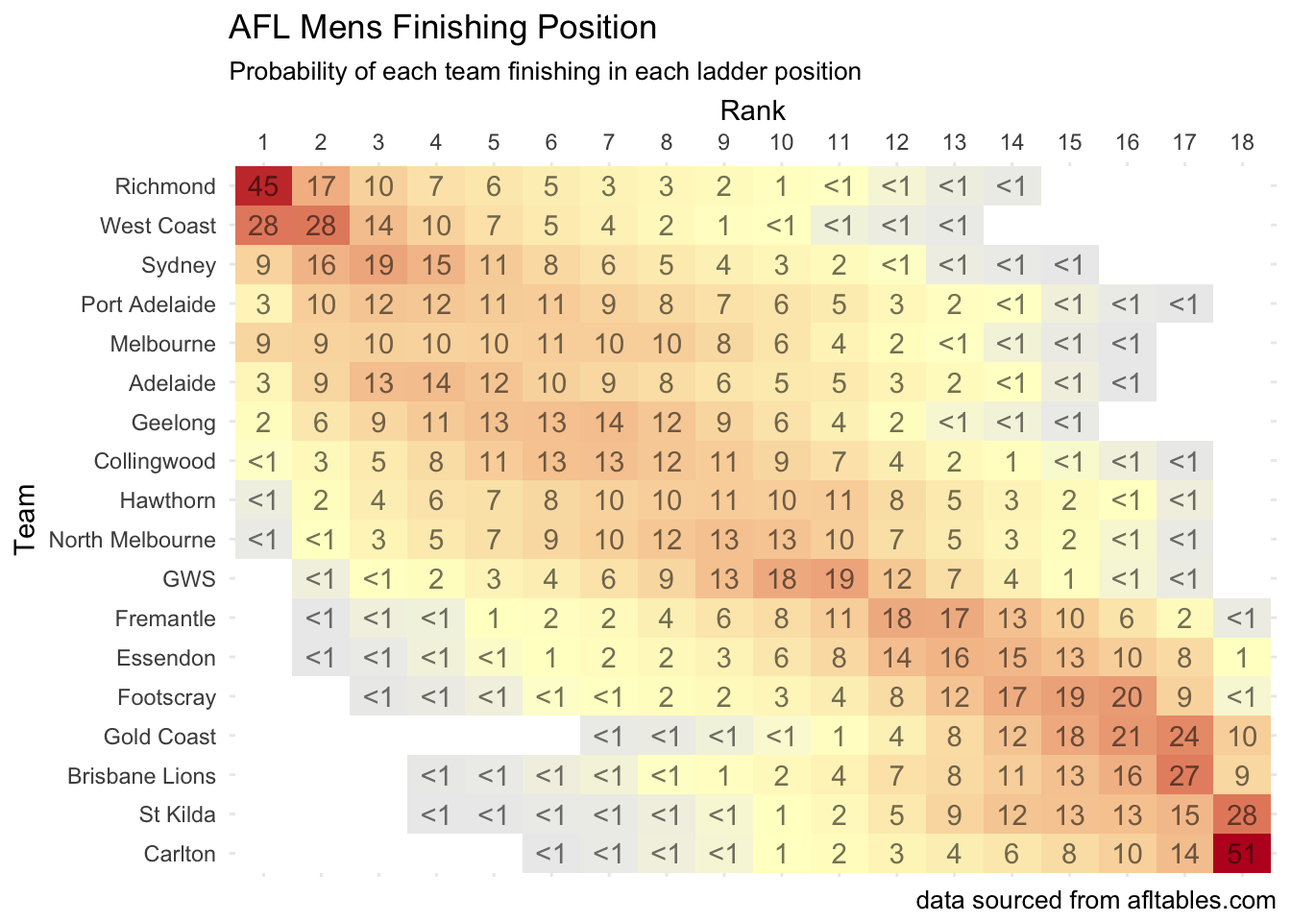
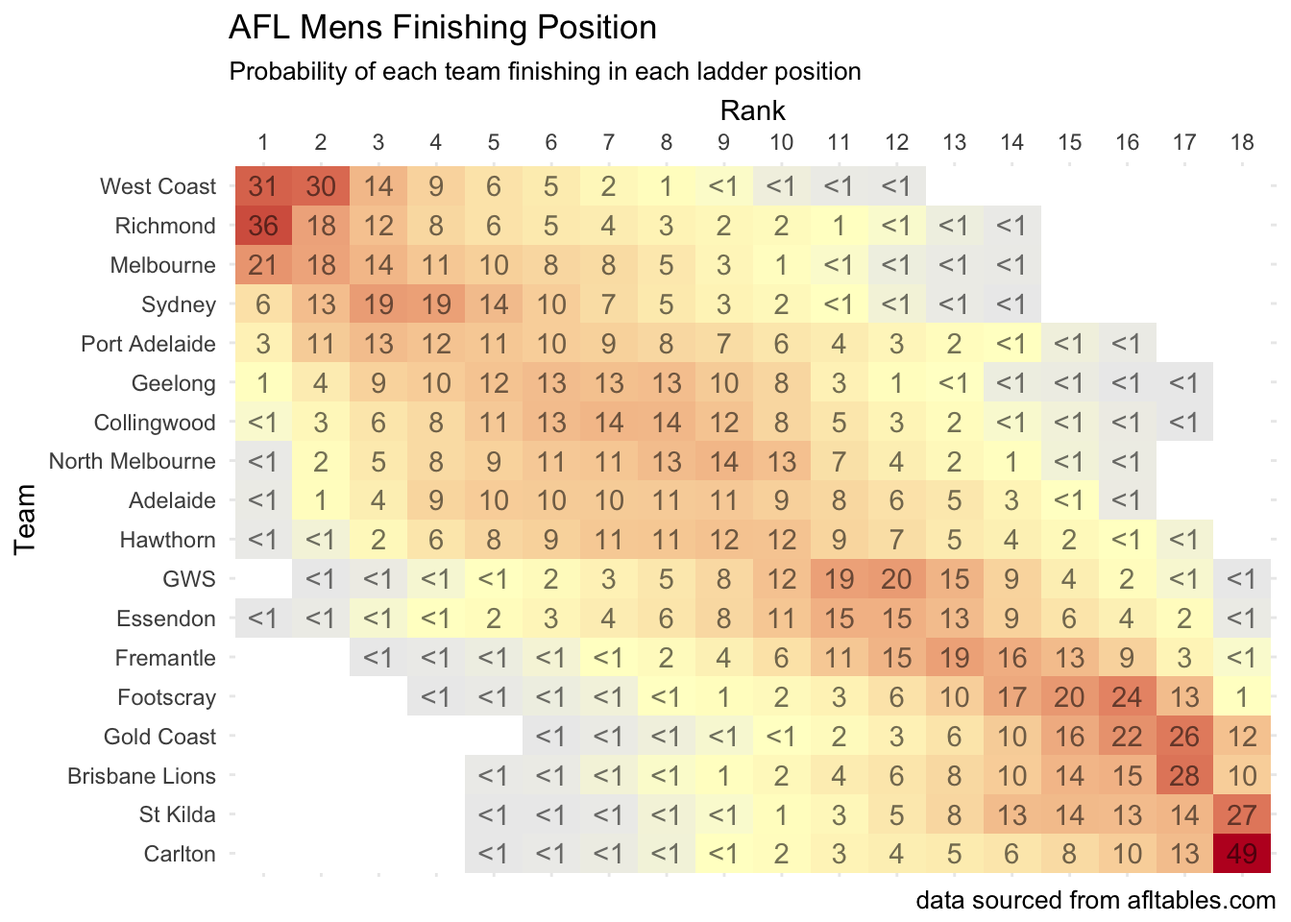
Updating pages after round 11

diff --git a/static/page/aflm-ratings-and-simulations_files/figure-html/widgets/widget_formattable.html b/static/page/aflm-ratings-and-simulations_files/figure-html/widgets/widget_formattable.html
@@ -16,12 +16,12 @@
 </head>
 <body style="background-color:white;">
 <div id="htmlwidget_container">
-  <div id="htmlwidget-3d005ff53d61f99d8d3a" style="width:95%;height:700px;" class="datatables html-widget"></div>
+  <div id="htmlwidget-970a37d9d9e76696845b" style="width:95%;height:700px;" class="datatables html-widget"></div>
   <script>HTMLWidgets.pymChild = new pym.Child();HTMLWidgets.addPostRenderHandler(function(){
                                 setTimeout(function(){HTMLWidgets.pymChild.sendHeight();},100);
                             });</script>
 </div>
-<script type="application/json" data-for="htmlwidget-3d005ff53d61f99d8d3a">{"x":{"filter":"none","data":[["1","2","3","4","5","6","7","8","9","10","11","12","13","14","15","16","17","18"],["Richmond       ","West Coast     ","Sydney         ","Port Adelaide  ","Melbourne      ","Adelaide       ","Geelong        ","Collingwood    ","Hawthorn       ","North Melbourne","GWS            ","Fremantle      ","Essendon       ","Footscray      ","Gold Coast     ","Brisbane Lions ","St Kilda       ","Carlton        "],["<span style=\"display: inline-block; direction: rtl; border-radius: 4px; padding-right: 2px; background-color: rgba(32, 178, 170, 0.5); width: 100.00%\">1599<\/span>","<span style=\"display: inline-block; direction: rtl; border-radius: 4px; padding-right: 2px; background-color: rgba(32, 178, 170, 0.5); width: 98.31%\">1595<\/span> ","<span style=\"display: inline-block; direction: rtl; border-radius: 4px; padding-right: 2px; background-color: rgba(32, 178, 170, 0.5); width: 96.19%\">1590<\/span> ","<span style=\"display: inline-block; direction: rtl; border-radius: 4px; padding-right: 2px; background-color: rgba(32, 178, 170, 0.5); width: 73.31%\">1536<\/span> ","<span style=\"display: inline-block; direction: rtl; border-radius: 4px; padding-right: 2px; background-color: rgba(32, 178, 170, 0.5); width: 86.02%\">1566<\/span> ","<span style=\"display: inline-block; direction: rtl; border-radius: 4px; padding-right: 2px; background-color: rgba(32, 178, 170, 0.5); width: 88.98%\">1573<\/span> ","<span style=\"display: inline-block; direction: rtl; border-radius: 4px; padding-right: 2px; background-color: rgba(32, 178, 170, 0.5); width: 84.75%\">1563<\/span> ","<span style=\"display: inline-block; direction: rtl; border-radius: 4px; padding-right: 2px; background-color: rgba(32, 178, 170, 0.5); width: 69.49%\">1527<\/span> ","<span style=\"display: inline-block; direction: rtl; border-radius: 4px; padding-right: 2px; background-color: rgba(32, 178, 170, 0.5); width: 56.78%\">1497<\/span> ","<span style=\"display: inline-block; direction: rtl; border-radius: 4px; padding-right: 2px; background-color: rgba(32, 178, 170, 0.5); width: 66.95%\">1521<\/span> ","<span style=\"display: inline-block; direction: rtl; border-radius: 4px; padding-right: 2px; background-color: rgba(32, 178, 170, 0.5); width: 60.59%\">1506<\/span> ","<span style=\"display: inline-block; direction: rtl; border-radius: 4px; padding-right: 2px; background-color: rgba(32, 178, 170, 0.5); width: 33.47%\">1442<\/span> ","<span style=\"display: inline-block; direction: rtl; border-radius: 4px; padding-right: 2px; background-color: rgba(32, 178, 170, 0.5); width: 45.76%\">1471<\/span> ","<span style=\"display: inline-block; direction: rtl; border-radius: 4px; padding-right: 2px; background-color: rgba(32, 178, 170, 0.5); width: 29.66%\">1433<\/span> ","<span style=\"display: inline-block; direction: rtl; border-radius: 4px; padding-right: 2px; background-color: rgba(32, 178, 170, 0.5); width: 2.54%\">1369<\/span>  ","<span style=\"display: inline-block; direction: rtl; border-radius: 4px; padding-right: 2px; background-color: rgba(32, 178, 170, 0.5); width: 31.36%\">1437<\/span> ","<span style=\"display: inline-block; direction: rtl; border-radius: 4px; padding-right: 2px; background-color: rgba(32, 178, 170, 0.5); width: 17.37%\">1404<\/span> ","<span style=\"display: inline-block; direction: rtl; border-radius: 4px; padding-right: 2px; background-color: rgba(32, 178, 170, 0.5); width: 0.00%\">1363<\/span>  "],["<span style=\"color: red\">-22<\/span> ","<span style=\"color: green\">22<\/span>","<span style=\"color: green\">8<\/span> ","<span style=\"color: green\">6<\/span> ","<span style=\"color: green\">26<\/span>","<span style=\"color: green\">0<\/span> ","<span style=\"color: red\">-29<\/span> ","<span style=\"color: green\">4<\/span> ","<span style=\"color: red\">-36<\/span> ","<span style=\"color: green\">22<\/span>","<span style=\"color: red\">-22<\/span> ","<span style=\"color: red\">-8<\/span>  ","<span style=\"color: green\">29<\/span>","<span style=\"color: green\">0<\/span> ","<span style=\"color: red\">-6<\/span>  ","<span style=\"color: green\">36<\/span>","<span style=\"color: red\">-4<\/span>  ","<span style=\"color: red\">-26<\/span> "],["18.1","17.7","15.8","14.6","14.4","14.2","13.9","13.2","12.1","11.8","10.7","8.5","7.4","6.7","5.3","5.1","4.9","3.6"],["<span style=\"display: block; padding: 0 4px; border-radius: 4px; background-color: #aed8e6\">95.0%<\/span>","<span style=\"display: block; padding: 0 4px; border-radius: 4px; background-color: #add8e6\">97.1%<\/span>","<span style=\"display: block; padding: 0 4px; border-radius: 4px; background-color: #b2dae7\">90.2%<\/span>","<span style=\"display: block; padding: 0 4px; border-radius: 4px; background-color: #bee0eb\">76.6%<\/span>","<span style=\"display: block; padding: 0 4px; border-radius: 4px; background-color: #bcdfea\">78.8%<\/span>","<span style=\"display: block; padding: 0 4px; border-radius: 4px; background-color: #bde0eb\">77.0%<\/span>","<span style=\"display: block; padding: 0 4px; border-radius: 4px; background-color: #bddfea\">77.9%<\/span>","<span style=\"display: block; padding: 0 4px; border-radius: 4px; background-color: #c8e5ee\">64.6%<\/span>","<span style=\"display: block; padding: 0 4px; border-radius: 4px; background-color: #d6ebf2\">48.2%<\/span>","<span style=\"display: block; padding: 0 4px; border-radius: 4px; background-color: #d7ecf2\">46.7%<\/span>","<span style=\"display: block; padding: 0 4px; border-radius: 4px; background-color: #e9f4f8\">25.9%<\/span>","<span style=\"display: block; padding: 0 4px; border-radius: 4px; background-color: #f7fbfc\">9.3%<\/span> ","<span style=\"display: block; padding: 0 4px; border-radius: 4px; background-color: #f9fcfd\">6.4%<\/span> ","<span style=\"display: block; padding: 0 4px; border-radius: 4px; background-color: #fbfdfe\">3.8%<\/span> ","<span style=\"display: block; padding: 0 4px; border-radius: 4px; background-color: #ffffff\">0.2%<\/span> ","<span style=\"display: block; padding: 0 4px; border-radius: 4px; background-color: #fdfefe\">1.5%<\/span> ","<span style=\"display: block; padding: 0 4px; border-radius: 4px; background-color: #fefefe\">0.4%<\/span> ","<span style=\"display: block; padding: 0 4px; border-radius: 4px; background-color: #fefefe\">0.4%<\/span> "],["<span style=\"display: block; padding: 0 4px; border-radius: 4px; background-color: #add8e6\">78.7%<\/span>","<span style=\"display: block; padding: 0 4px; border-radius: 4px; background-color: #add8e6\">79.2%<\/span>","<span style=\"display: block; padding: 0 4px; border-radius: 4px; background-color: #c1e1ec\">59.0%<\/span>","<span style=\"display: block; padding: 0 4px; border-radius: 4px; background-color: #d8ecf3\">37.4%<\/span>","<span style=\"display: block; padding: 0 4px; border-radius: 4px; background-color: #d8ecf3\">37.4%<\/span>","<span style=\"display: block; padding: 0 4px; border-radius: 4px; background-color: #d6ebf2\">38.9%<\/span>","<span style=\"display: block; padding: 0 4px; border-radius: 4px; background-color: #e2f1f6\">27.1%<\/span>","<span style=\"display: block; padding: 0 4px; border-radius: 4px; background-color: #eef7f9\">16.2%<\/span>","<span style=\"display: block; padding: 0 4px; border-radius: 4px; background-color: #f1f8fb\">12.6%<\/span>","<span style=\"display: block; padding: 0 4px; border-radius: 4px; background-color: #f5fafc\">9.4%<\/span> ","<span style=\"display: block; padding: 0 4px; border-radius: 4px; background-color: #fcfdfe\">2.9%<\/span> ","<span style=\"display: block; padding: 0 4px; border-radius: 4px; background-color: #fefefe\">0.6%<\/span> ","<span style=\"display: block; padding: 0 4px; border-radius: 4px; background-color: #fefefe\">0.4%<\/span> ","<span style=\"display: block; padding: 0 4px; border-radius: 4px; background-color: #fefefe\">0.1%<\/span> ","<span style=\"display: block; padding: 0 4px; border-radius: 4px; background-color: #ffffff\">0.0%<\/span> ","<span style=\"display: block; padding: 0 4px; border-radius: 4px; background-color: #fefefe\">0.0%<\/span> ","<span style=\"display: block; padding: 0 4px; border-radius: 4px; background-color: #fefefe\">0.0%<\/span> ","<span style=\"display: block; padding: 0 4px; border-radius: 4px; background-color: #ffffff\">0.0%<\/span> "],["<span style=\"display: block; padding: 0 4px; border-radius: 4px; background-color: #add8e6\">45.1%<\/span>","<span style=\"display: block; padding: 0 4px; border-radius: 4px; background-color: #cbe6ef\">28.1%<\/span>","<span style=\"display: block; padding: 0 4px; border-radius: 4px; background-color: #eef6f9\">9.3%<\/span> ","<span style=\"display: block; padding: 0 4px; border-radius: 4px; background-color: #f9fcfd\">3.2%<\/span> ","<span style=\"display: block; padding: 0 4px; border-radius: 4px; background-color: #eff7fa\">8.8%<\/span> ","<span style=\"display: block; padding: 0 4px; border-radius: 4px; background-color: #f9fcfd\">2.9%<\/span> ","<span style=\"display: block; padding: 0 4px; border-radius: 4px; background-color: #fbfdfe\">1.7%<\/span> ","<span style=\"display: block; padding: 0 4px; border-radius: 4px; background-color: #fdfefe\">0.8%<\/span> ","<span style=\"display: block; padding: 0 4px; border-radius: 4px; background-color: #fefefe\">0.2%<\/span> ","<span style=\"display: block; padding: 0 4px; border-radius: 4px; background-color: #fefefe\">0.1%<\/span> ","<span style=\"display: block; padding: 0 4px; border-radius: 4px; background-color: #ffffff\">0.0%<\/span> ","<span style=\"display: block; padding: 0 4px; border-radius: 4px; background-color: #ffffff\">0.0%<\/span> ","<span style=\"display: block; padding: 0 4px; border-radius: 4px; background-color: #ffffff\">0.0%<\/span> ","<span style=\"display: block; padding: 0 4px; border-radius: 4px; background-color: #ffffff\">0.0%<\/span> ","<span style=\"display: block; padding: 0 4px; border-radius: 4px; background-color: #ffffff\">0.0%<\/span> ","<span style=\"display: block; padding: 0 4px; border-radius: 4px; background-color: #ffffff\">0.0%<\/span> ","<span style=\"display: block; padding: 0 4px; border-radius: 4px; background-color: #ffffff\">0.0%<\/span> ","<span style=\"display: block; padding: 0 4px; border-radius: 4px; background-color: #ffffff\">0.0%<\/span> "]],"container":"<table class=\"display\">\n  <thead>\n    <tr>\n      <th> <\/th>\n      <th>Team<\/th>\n      <th>ELO<\/th>\n      <th>ELO.change<\/th>\n      <th>Wins<\/th>\n      <th>Top.8<\/th>\n      <th>Top.4<\/th>\n      <th>Top.1<\/th>\n    <\/tr>\n  <\/thead>\n<\/table>","options":{"dom":"t","pageLength":18,"order":[],"autoWidth":false,"orderClasses":false,"columnDefs":[{"orderable":false,"targets":0}],"lengthMenu":[10,18,25,50,100]}},"evals":[],"jsHooks":[]}</script>
-<script type="application/htmlwidget-sizing" data-for="htmlwidget-3d005ff53d61f99d8d3a">{"viewer":{"width":"95%","height":700,"padding":0,"fill":false},"browser":{"width":"95%","height":700,"padding":0,"fill":false}}</script>
+<script type="application/json" data-for="htmlwidget-970a37d9d9e76696845b">{"x":{"filter":"none","data":[["1","2","3","4","5","6","7","8","9","10","11","12","13","14","15","16","17","18"],["West Coast     ","Richmond       ","Melbourne      ","Sydney         ","Port Adelaide  ","Geelong        ","Collingwood    ","North Melbourne","Adelaide       ","Hawthorn       ","GWS            ","Essendon       ","Fremantle      ","Footscray      ","Gold Coast     ","St Kilda       ","Brisbane Lions ","Carlton        "],["<span style=\"display: inline-block; direction: rtl; border-radius: 4px; padding-right: 2px; background-color: rgba(32, 178, 170, 0.5); width: 97.86%\">1598<\/span> ","<span style=\"display: inline-block; direction: rtl; border-radius: 4px; padding-right: 2px; background-color: rgba(32, 178, 170, 0.5); width: 96.15%\">1594<\/span> ","<span style=\"display: inline-block; direction: rtl; border-radius: 4px; padding-right: 2px; background-color: rgba(32, 178, 170, 0.5); width: 100.00%\">1603<\/span>","<span style=\"display: inline-block; direction: rtl; border-radius: 4px; padding-right: 2px; background-color: rgba(32, 178, 170, 0.5); width: 94.02%\">1589<\/span> ","<span style=\"display: inline-block; direction: rtl; border-radius: 4px; padding-right: 2px; background-color: rgba(32, 178, 170, 0.5); width: 71.37%\">1536<\/span> ","<span style=\"display: inline-block; direction: rtl; border-radius: 4px; padding-right: 2px; background-color: rgba(32, 178, 170, 0.5); width: 80.34%\">1557<\/span> ","<span style=\"display: inline-block; direction: rtl; border-radius: 4px; padding-right: 2px; background-color: rgba(32, 178, 170, 0.5); width: 70.09%\">1533<\/span> ","<span style=\"display: inline-block; direction: rtl; border-radius: 4px; padding-right: 2px; background-color: rgba(32, 178, 170, 0.5); width: 69.66%\">1532<\/span> ","<span style=\"display: inline-block; direction: rtl; border-radius: 4px; padding-right: 2px; background-color: rgba(32, 178, 170, 0.5); width: 71.37%\">1536<\/span> ","<span style=\"display: inline-block; direction: rtl; border-radius: 4px; padding-right: 2px; background-color: rgba(32, 178, 170, 0.5); width: 53.42%\">1494<\/span> ","<span style=\"display: inline-block; direction: rtl; border-radius: 4px; padding-right: 2px; background-color: rgba(32, 178, 170, 0.5); width: 47.44%\">1480<\/span> ","<span style=\"display: inline-block; direction: rtl; border-radius: 4px; padding-right: 2px; background-color: rgba(32, 178, 170, 0.5); width: 55.13%\">1498<\/span> ","<span style=\"display: inline-block; direction: rtl; border-radius: 4px; padding-right: 2px; background-color: rgba(32, 178, 170, 0.5); width: 26.50%\">1431<\/span> ","<span style=\"display: inline-block; direction: rtl; border-radius: 4px; padding-right: 2px; background-color: rgba(32, 178, 170, 0.5); width: 24.79%\">1427<\/span> ","<span style=\"display: inline-block; direction: rtl; border-radius: 4px; padding-right: 2px; background-color: rgba(32, 178, 170, 0.5); width: 0.00%\">1369<\/span>  ","<span style=\"display: inline-block; direction: rtl; border-radius: 4px; padding-right: 2px; background-color: rgba(32, 178, 170, 0.5); width: 17.09%\">1409<\/span> ","<span style=\"display: inline-block; direction: rtl; border-radius: 4px; padding-right: 2px; background-color: rgba(32, 178, 170, 0.5); width: 29.06%\">1437<\/span> ","<span style=\"display: inline-block; direction: rtl; border-radius: 4px; padding-right: 2px; background-color: rgba(32, 178, 170, 0.5); width: 0.00%\">1369<\/span>  "],["<span style=\"color: green\">2<\/span> ","<span style=\"color: red\">-5<\/span>  ","<span style=\"color: green\">37<\/span>","<span style=\"color: green\">0<\/span> ","<span style=\"color: green\">6<\/span> ","<span style=\"color: red\">-5<\/span>  ","<span style=\"color: green\">6<\/span> ","<span style=\"color: green\">11<\/span>","<span style=\"color: red\">-37<\/span> ","<span style=\"color: red\">-2<\/span>  ","<span style=\"color: red\">-26<\/span> ","<span style=\"color: green\">26<\/span>","<span style=\"color: red\">-11<\/span> ","<span style=\"color: red\">-6<\/span>  ","<span style=\"color: red\">-6<\/span>  ","<span style=\"color: green\">5<\/span> ","<span style=\"color: green\">0<\/span> ","<span style=\"color: green\">5<\/span> "],["18.0","17.8","16.3","15.8","14.6","13.7","13.3","12.6","12.4","11.9","9.2","9.2","7.7","6.2","5.2","5.0","5.0","3.9"],["<span style=\"display: block; padding: 0 4px; border-radius: 4px; background-color: #add8e6\">99.1%<\/span>","<span style=\"display: block; padding: 0 4px; border-radius: 4px; background-color: #b1dae7\">94.0%<\/span>","<span style=\"display: block; padding: 0 4px; border-radius: 4px; background-color: #b0d9e7\">94.9%<\/span>","<span style=\"display: block; padding: 0 4px; border-radius: 4px; background-color: #b1dae7\">93.1%<\/span>","<span style=\"display: block; padding: 0 4px; border-radius: 4px; background-color: #bfe0eb\">77.2%<\/span>","<span style=\"display: block; padding: 0 4px; border-radius: 4px; background-color: #c0e1ec\">75.3%<\/span>","<span style=\"display: block; padding: 0 4px; border-radius: 4px; background-color: #c6e3ed\">68.8%<\/span>","<span style=\"display: block; padding: 0 4px; border-radius: 4px; background-color: #cee7f0\">58.7%<\/span>","<span style=\"display: block; padding: 0 4px; border-radius: 4px; background-color: #d0e9f0\">55.9%<\/span>","<span style=\"display: block; padding: 0 4px; border-radius: 4px; background-color: #d7ecf2\">48.4%<\/span>","<span style=\"display: block; padding: 0 4px; border-radius: 4px; background-color: #f5fafc\">12.0%<\/span>","<span style=\"display: block; padding: 0 4px; border-radius: 4px; background-color: #f2f8fb\">15.8%<\/span>","<span style=\"display: block; padding: 0 4px; border-radius: 4px; background-color: #fcfdfe\">3.4%<\/span> ","<span style=\"display: block; padding: 0 4px; border-radius: 4px; background-color: #fefefe\">1.3%<\/span> ","<span style=\"display: block; padding: 0 4px; border-radius: 4px; background-color: #ffffff\">0.3%<\/span> ","<span style=\"display: block; padding: 0 4px; border-radius: 4px; background-color: #fefefe\">0.4%<\/span> ","<span style=\"display: block; padding: 0 4px; border-radius: 4px; background-color: #fefefe\">1.0%<\/span> ","<span style=\"display: block; padding: 0 4px; border-radius: 4px; background-color: #fefefe\">0.5%<\/span> "],["<span style=\"display: block; padding: 0 4px; border-radius: 4px; background-color: #add8e6\">84.4%<\/span>","<span style=\"display: block; padding: 0 4px; border-radius: 4px; background-color: #b6dce8\">75.0%<\/span>","<span style=\"display: block; padding: 0 4px; border-radius: 4px; background-color: #c0e1eb\">64.2%<\/span>","<span style=\"display: block; padding: 0 4px; border-radius: 4px; background-color: #c7e4ee\">57.3%<\/span>","<span style=\"display: block; padding: 0 4px; border-radius: 4px; background-color: #d9edf3\">38.7%<\/span>","<span style=\"display: block; padding: 0 4px; border-radius: 4px; background-color: #e6f3f7\">25.0%<\/span>","<span style=\"display: block; padding: 0 4px; border-radius: 4px; background-color: #eff7fa\">16.3%<\/span>","<span style=\"display: block; padding: 0 4px; border-radius: 4px; background-color: #f1f8fa\">14.2%<\/span>","<span style=\"display: block; padding: 0 4px; border-radius: 4px; background-color: #f1f8fa\">14.3%<\/span>","<span style=\"display: block; padding: 0 4px; border-radius: 4px; background-color: #f6fbfc\">8.5%<\/span> ","<span style=\"display: block; padding: 0 4px; border-radius: 4px; background-color: #fefefe\">0.5%<\/span> ","<span style=\"display: block; padding: 0 4px; border-radius: 4px; background-color: #fdfefe\">1.5%<\/span> ","<span style=\"display: block; padding: 0 4px; border-radius: 4px; background-color: #fefefe\">0.1%<\/span> ","<span style=\"display: block; padding: 0 4px; border-radius: 4px; background-color: #fefefe\">0.0%<\/span> ","<span style=\"display: block; padding: 0 4px; border-radius: 4px; background-color: #ffffff\">0.0%<\/span> ","<span style=\"display: block; padding: 0 4px; border-radius: 4px; background-color: #ffffff\">0.0%<\/span> ","<span style=\"display: block; padding: 0 4px; border-radius: 4px; background-color: #ffffff\">0.0%<\/span> ","<span style=\"display: block; padding: 0 4px; border-radius: 4px; background-color: #ffffff\">0.0%<\/span> "],["<span style=\"display: block; padding: 0 4px; border-radius: 4px; background-color: #b7dde9\">31.4%<\/span>","<span style=\"display: block; padding: 0 4px; border-radius: 4px; background-color: #add8e6\">36.0%<\/span>","<span style=\"display: block; padding: 0 4px; border-radius: 4px; background-color: #cfe8f0\">20.9%<\/span>","<span style=\"display: block; padding: 0 4px; border-radius: 4px; background-color: #f0f7fa\">6.5%<\/span> ","<span style=\"display: block; padding: 0 4px; border-radius: 4px; background-color: #f7fbfc\">3.3%<\/span> ","<span style=\"display: block; padding: 0 4px; border-radius: 4px; background-color: #fcfdfe\">1.2%<\/span> ","<span style=\"display: block; padding: 0 4px; border-radius: 4px; background-color: #fdfefe\">0.5%<\/span> ","<span style=\"display: block; padding: 0 4px; border-radius: 4px; background-color: #fefefe\">0.0%<\/span> ","<span style=\"display: block; padding: 0 4px; border-radius: 4px; background-color: #fefefe\">0.1%<\/span> ","<span style=\"display: block; padding: 0 4px; border-radius: 4px; background-color: #fefefe\">0.0%<\/span> ","<span style=\"display: block; padding: 0 4px; border-radius: 4px; background-color: #ffffff\">0.0%<\/span> ","<span style=\"display: block; padding: 0 4px; border-radius: 4px; background-color: #fefefe\">0.0%<\/span> ","<span style=\"display: block; padding: 0 4px; border-radius: 4px; background-color: #ffffff\">0.0%<\/span> ","<span style=\"display: block; padding: 0 4px; border-radius: 4px; background-color: #ffffff\">0.0%<\/span> ","<span style=\"display: block; padding: 0 4px; border-radius: 4px; background-color: #ffffff\">0.0%<\/span> ","<span style=\"display: block; padding: 0 4px; border-radius: 4px; background-color: #ffffff\">0.0%<\/span> ","<span style=\"display: block; padding: 0 4px; border-radius: 4px; background-color: #ffffff\">0.0%<\/span> ","<span style=\"display: block; padding: 0 4px; border-radius: 4px; background-color: #ffffff\">0.0%<\/span> "]],"container":"<table class=\"display\">\n  <thead>\n    <tr>\n      <th> <\/th>\n      <th>Team<\/th>\n      <th>ELO<\/th>\n      <th>ELO.change<\/th>\n      <th>Wins<\/th>\n      <th>Top.8<\/th>\n      <th>Top.4<\/th>\n      <th>Top.1<\/th>\n    <\/tr>\n  <\/thead>\n<\/table>","options":{"dom":"t","pageLength":18,"order":[],"autoWidth":false,"orderClasses":false,"columnDefs":[{"orderable":false,"targets":0}],"lengthMenu":[10,18,25,50,100]}},"evals":[],"jsHooks":[]}</script>
+<script type="application/htmlwidget-sizing" data-for="htmlwidget-970a37d9d9e76696845b">{"viewer":{"width":"95%","height":700,"padding":0,"fill":false},"browser":{"width":"95%","height":700,"padding":0,"fill":false}}</script>
 </body>
 </html>

diff --git a/content/page/aflm-current-tips.html b/content/page/aflm-current-tips.html
@@ -41,16 +41,200 @@ Result
 <tbody>
 <tr>
 <td style="text-align:right;">
-Fri, 25
+Fri, 01
+</td>
+<td style="text-align:right;">
+S.C.G.
+</td>
+<td style="text-align:right;">
+<span style="font-weight: bold">Sydney </span>
+</td>
+<td style="text-align:right;">
+<span>Carlton </span>
+</td>
+<td style="text-align:right;">
+54
+</td>
+<td style="text-align:right;">
+83.1%
+</td>
+<td style="text-align:right;">
+Sydney by 54
+</td>
+</tr>
+<tr>
+<td style="text-align:right;">
+Sat, 02
 </td>
 <td style="text-align:right;">
 Docklands
 </td>
 <td style="text-align:right;">
+<span>Footscray </span>
+</td>
+<td style="text-align:right;">
+<span style="font-weight: bold">Melbourne </span>
+</td>
+<td style="text-align:right;">
+-29
+</td>
+<td style="text-align:right;">
+29.1%
+</td>
+<td style="text-align:right;">
+Melbourne by 29
+</td>
+</tr>
+<tr>
+<td style="text-align:right;">
+Sat, 02
+</td>
+<td style="text-align:right;">
+York Park
+</td>
+<td style="text-align:right;">
+<span>Hawthorn </span>
+</td>
+<td style="text-align:right;">
+<span style="font-weight: bold">Port Adelaide </span>
+</td>
+<td style="text-align:right;">
+-3
+</td>
+<td style="text-align:right;">
+47.7%
+</td>
+<td style="text-align:right;">
+Port Adelaide by 3
+</td>
+</tr>
+<tr>
+<td style="text-align:right;">
+Sat, 02
+</td>
+<td style="text-align:right;">
+Carrara
+</td>
+<td style="text-align:right;">
+<span>Gold Coast </span>
+</td>
+<td style="text-align:right;">
+<span style="font-weight: bold">Geelong </span>
+</td>
+<td style="text-align:right;">
+-25
+</td>
+<td style="text-align:right;">
+32.0%
+</td>
+<td style="text-align:right;">
+Geelong by 25
+</td>
+</tr>
+<tr>
+<td style="text-align:right;">
+Sat, 02
+</td>
+<td style="text-align:right;">
+Perth Stadium
+</td>
+<td style="text-align:right;">
+<span style="font-weight: bold">West Coast </span>
+</td>
+<td style="text-align:right;">
+<span>St Kilda </span>
+</td>
+<td style="text-align:right;">
+47
+</td>
+<td style="text-align:right;">
+80.2%
+</td>
+<td style="text-align:right;">
+West Coast by 47
+</td>
+</tr>
+<tr>
+<td style="text-align:right;">
+Sat, 02
+</td>
+<td style="text-align:right;">
+M.C.G.
+</td>
+<td style="text-align:right;">
+<span>Essendon </span>
+</td>
+<td style="text-align:right;">
+<span style="font-weight: bold">Richmond </span>
+</td>
+<td style="text-align:right;">
+-14
+</td>
+<td style="text-align:right;">
+39.1%
+</td>
+<td style="text-align:right;">
+Richmond by 14
+</td>
+</tr>
+<tr>
+<td style="text-align:right;">
+Sun, 03
+</td>
+<td style="text-align:right;">
+Docklands
+</td>
+<td style="text-align:right;">
+<span style="font-weight: bold">North Melbourne</span>
+</td>
+<td style="text-align:right;">
+<span>Brisbane Lions</span>
+</td>
+<td style="text-align:right;">
+29
+</td>
+<td style="text-align:right;">
+70.2%
+</td>
+<td style="text-align:right;">
+North Melbourne by 29
+</td>
+</tr>
+<tr>
+<td style="text-align:right;">
+Sun, 03
+</td>
+<td style="text-align:right;">
+M.C.G.
+</td>
+<td style="text-align:right;">
 <span style="font-weight: bold">Collingwood </span>
 </td>
 <td style="text-align:right;">
-<span>Footscray </span>
+<span>Fremantle </span>
+</td>
+<td style="text-align:right;">
+31
+</td>
+<td style="text-align:right;">
+71.2%
+</td>
+<td style="text-align:right;">
+Collingwood by 31
+</td>
+</tr>
+<tr>
+<td style="text-align:right;">
+Sun, 03
+</td>
+<td style="text-align:right;">
+Adelaide Oval
+</td>
+<td style="text-align:right;">
+<span style="font-weight: bold">Adelaide </span>
+</td>
+<td style="text-align:right;">
+<span>GWS </span>
 </td>
 <td style="text-align:right;">
 22
@@ -59,168 +243,7 @@ Docklands
 65.5%
 </td>
 <td style="text-align:right;">
-Collingwood by 22
-</td>
-</tr>
-<tr>
-<td style="text-align:right;">
-Sat, 26
-</td>
-<td style="text-align:right;">
-M.C.G.
-</td>
-<td style="text-align:right;">
-<span style="font-weight: bold">Richmond </span>
-</td>
-<td style="text-align:right;">
-<span>St Kilda </span>
-</td>
-<td style="text-align:right;">
-42
-</td>
-<td style="text-align:right;">
-77.9%
-</td>
-<td style="text-align:right;">
-Richmond by 42
-</td>
-</tr>
-<tr>
-<td style="text-align:right;">
-Sat, 26
-</td>
-<td style="text-align:right;">
-Gabba
-</td>
-<td style="text-align:right;">
-<span>Brisbane Lions</span>
-</td>
-<td style="text-align:right;">
-<span style="font-weight: bold">Sydney </span>
-</td>
-<td style="text-align:right;">
--18
-</td>
-<td style="text-align:right;">
-36.5%
-</td>
-<td style="text-align:right;">
-Sydney by 18
-</td>
-</tr>
-<tr>
-<td style="text-align:right;">
-Sat, 26
-</td>
-<td style="text-align:right;">
-Kardinia Park
-</td>
-<td style="text-align:right;">
-<span style="font-weight: bold">Geelong </span>
-</td>
-<td style="text-align:right;">
-<span>Carlton </span>
-</td>
-<td style="text-align:right;">
-44
-</td>
-<td style="text-align:right;">
-78.6%
-</td>
-<td style="text-align:right;">
-Geelong by 44
-</td>
-</tr>
-<tr>
-<td style="text-align:right;">
-Sat, 26
-</td>
-<td style="text-align:right;">
-Blacktown
-</td>
-<td style="text-align:right;">
-<span style="font-weight: bold">GWS </span>
-</td>
-<td style="text-align:right;">
-<span>Essendon </span>
-</td>
-<td style="text-align:right;">
-17
-</td>
-<td style="text-align:right;">
-62.2%
-</td>
-<td style="text-align:right;">
-GWS by 17
-</td>
-</tr>
-<tr>
-<td style="text-align:right;">
-Sun, 27
-</td>
-<td style="text-align:right;">
-Docklands
-</td>
-<td style="text-align:right;">
-<span>Hawthorn </span>
-</td>
-<td style="text-align:right;">
-<span style="font-weight: bold">West Coast </span>
-</td>
-<td style="text-align:right;">
--8
-</td>
-<td style="text-align:right;">
-43.3%
-</td>
-<td style="text-align:right;">
-West Coast by 8
-</td>
-</tr>
-<tr>
-<td style="text-align:right;">
-Sun, 27
-</td>
-<td style="text-align:right;">
-Perth Stadium
-</td>
-<td style="text-align:right;">
-<span>Fremantle </span>
-</td>
-<td style="text-align:right;">
-<span style="font-weight: bold">North Melbourne</span>
-</td>
-<td style="text-align:right;">
--4
-</td>
-<td style="text-align:right;">
-46.6%
-</td>
-<td style="text-align:right;">
-North Melbourne by 4
-</td>
-</tr>
-<tr>
-<td style="text-align:right;">
-Sun, 27
-</td>
-<td style="text-align:right;">
-Traeger Park
-</td>
-<td style="text-align:right;">
-<span style="font-weight: bold">Melbourne </span>
-</td>
-<td style="text-align:right;">
-<span>Adelaide </span>
-</td>
-<td style="text-align:right;">
-3
-</td>
-<td style="text-align:right;">
-52.1%
-</td>
-<td style="text-align:right;">
-Melbourne by 3
+Adelaide by 22
 </td>
 </tr>
 </tbody>

diff --git a/content/page/aflm-ratings-and-simulations.html b/content/page/aflm-ratings-and-simulations.html
@@ -15,7 +15,7 @@ tags: []
 
 
 <p>Welcome to our all new AFL Men’s ratings and tips page! Here you will the latest ratings, tips for the upcoming rounds and any simulations that have been done. I’ll usually aim to update these early in the week to give you time to digest Any questions, let me know on Twitter!</p>
-<p>Last updated: 2018-05-21.</p>
+<p>Last updated: 2018-05-28.</p>
 <div id="summary" class="section level2">
 <h2>Summary</h2>
 <p>Below are the updated AFL Men’s ratings and simulations. These are based off our ELO model (insert explainer) and simulations (insert explainer).</p>
